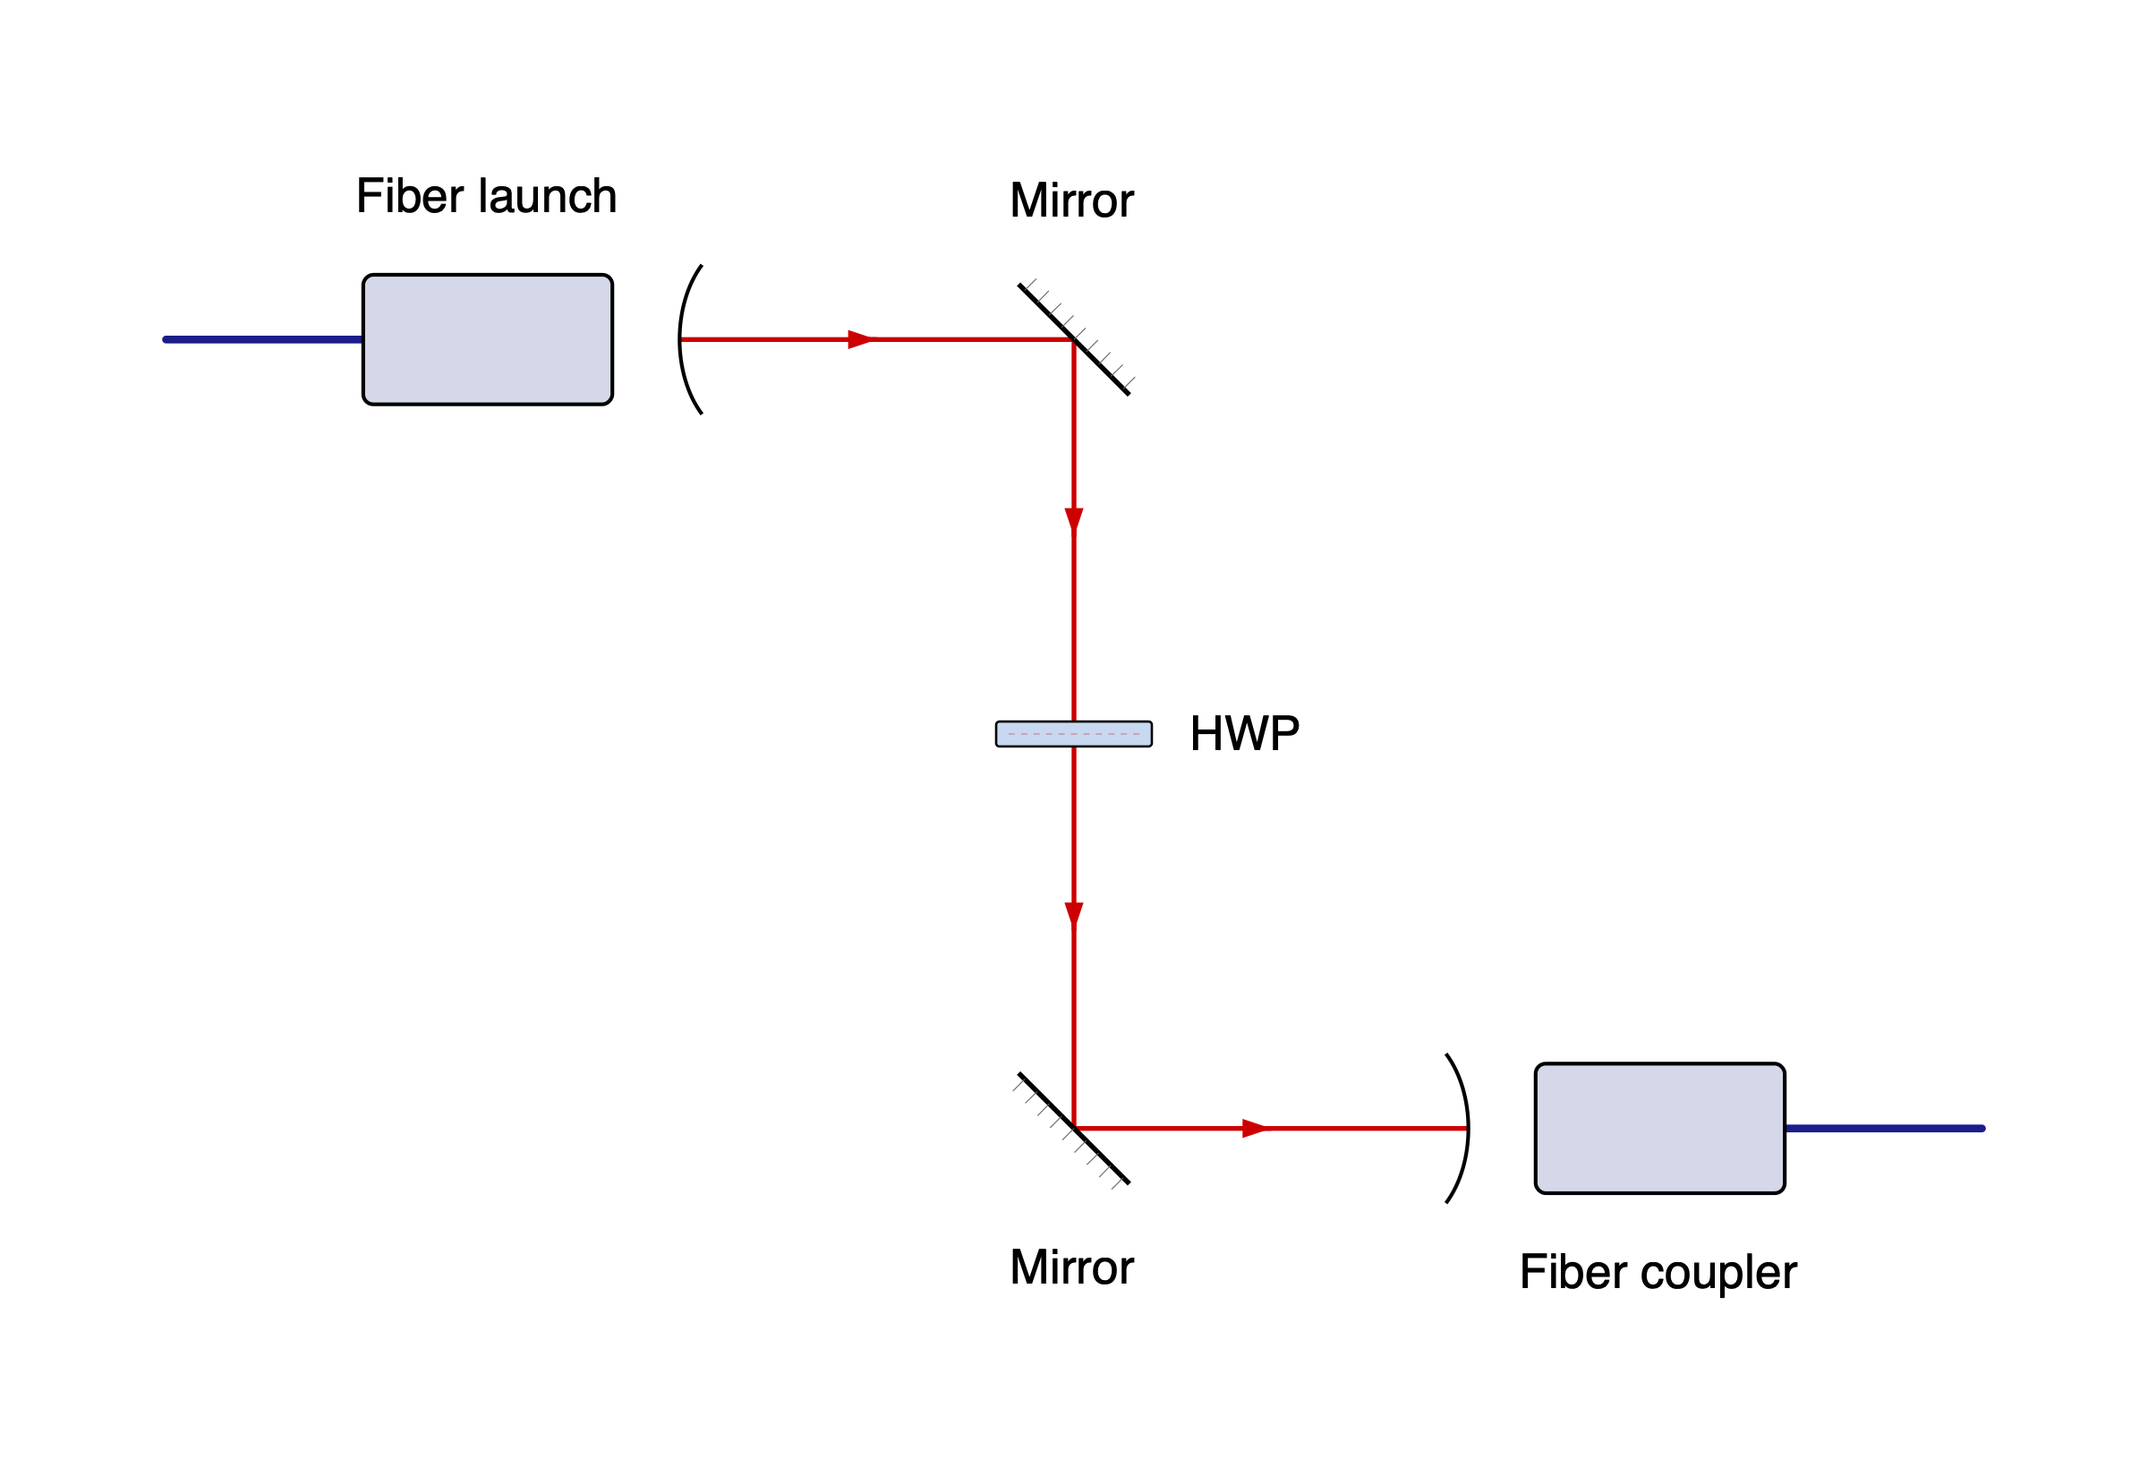
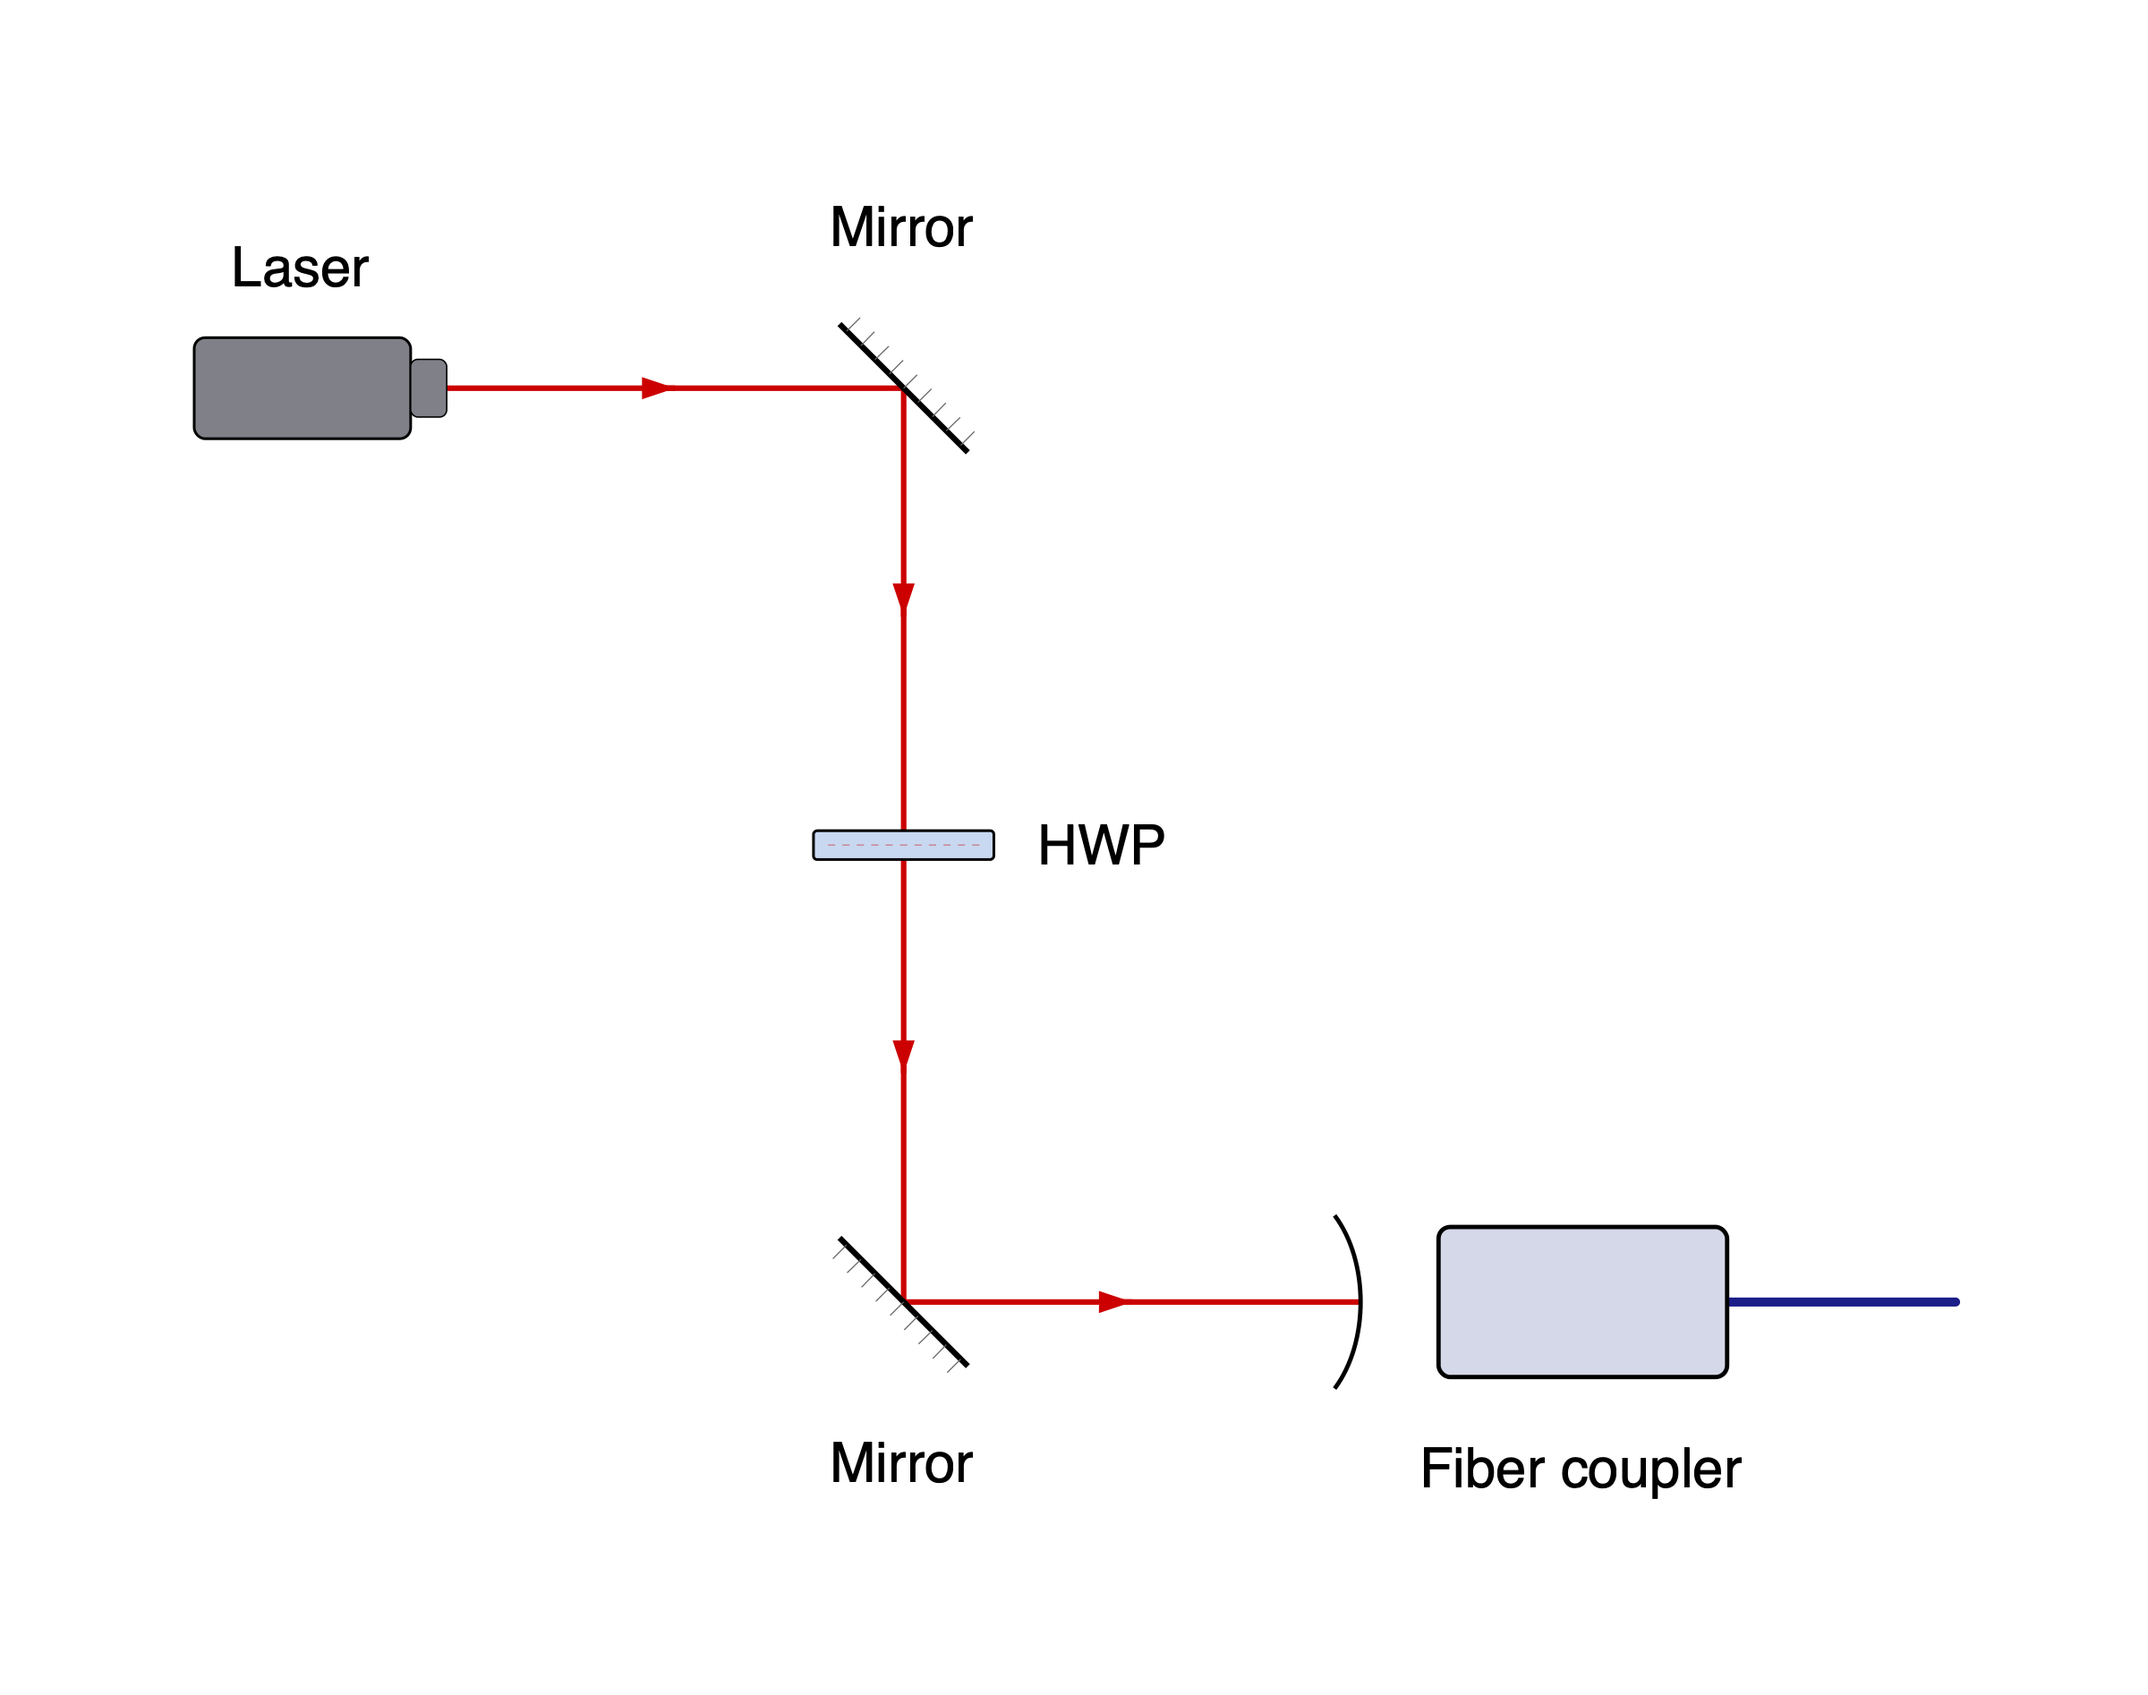
Use free-space lasers in standalone beam examples

diff --git a/tests/test_rows.py b/tests/test_rows.py
@@ -1,4 +1,3 @@
-import runpy
 """Stage groups retain topology and defer row placement until rendering."""
 from dataclasses import replace
 
@@ -187,8 +186,8 @@ def test_single_row_and_group_endpoint_keep_normal_path_semantics():
     assert_clear(grouped.layout())
 
 
-def test_shared_optics_are_copied_once_inside_a_row():
-    mzi = runpy.run_module("beampath.examples.mzi")["setup"]
+def test_shared_optics_are_copied_once_inside_a_row(fiber_mzi):
+    mzi = fiber_mzi
     result = rows(fiber_laser() >> inline_power_meter(), mzi)
     assert len(result.setup.optics) == len(mzi.setup.optics) + 2
     recombiner, = [n for n in result.setup.optics if n.spec.label == "NPBS2"]

diff --git a/tests/conftest.py b/tests/conftest.py
@@ -1,0 +1,16 @@
+"""Shared optical fixtures independent of the presentation examples."""
+import pytest
+
+from beampath import HWP, beamsplitter, detector, fiber_launch, mirror
+
+
+@pytest.fixture
+def fiber_mzi():
+    """A fiber-fed interferometer for composition and row-connection checks."""
+    setup = fiber_launch() >> beamsplitter("NPBS1", turn="left")
+    lower = setup.straight() >> HWP() >> mirror(heading="north")
+    upper = setup.reflect() >> mirror(heading="east") >> HWP()
+    combined = lower.join(upper, beamsplitter("NPBS2", turn="right"))
+    combined.reflect() >> detector()
+    combined.straight() >> detector()
+    return setup

diff --git a/tests/test_layout.py b/tests/test_layout.py
@@ -116,7 +116,8 @@ def test_cage_layout_and_labels():
     grid = [(0, 0), (1, 0), (1, 1), (2, 1), (3, 1), (4, 1), (5, 1),
             (6, 1), (7, 1), (8, 1), (9, 1), (9, 0), (10, 0)]
     for optic, (x, y) in zip(result.placements.values(), grid):
-        assert optic.position == pytest.approx((190 * x, 190 * y))
+        # The laser's nozzle is 60 units ahead of its housing center.
+        assert optic.position == pytest.approx((190 * x + (60 if x else 0), 190 * y))
     assert len(result.placements) == 13
     assert len(result.segments) == 12
     assert [label.text for label in result.labels] == [n.spec.display_label for n in p.setup.optics]

diff --git a/tests/test_composition.py b/tests/test_composition.py
@@ -1,4 +1,3 @@
-import runpy
 """Composition copies topology and constraints, without sharing physical optics."""
 import pytest
 
@@ -50,8 +49,8 @@ def test_repeated_branched_stage_copies_are_independent_and_keep_selected_output
     assert len(destination.setup.optics) == 12
 
 
-def test_copy_shared_recombiner_once_and_preserve_all_branches():
-    stage = runpy.run_module("beampath.examples.mzi")["setup"]
+def test_copy_shared_recombiner_once_and_preserve_all_branches(fiber_mzi):
+    stage = fiber_mzi
     before = snapshot(stage)
     svg = stage.to_svg()
     destination = beam().append(fiber_laser(), at=(-500, 0))

diff --git a/examples/ghz_path_identity.py b/examples/ghz_path_identity.py
@@ -11,9 +11,9 @@ Based on the path-identity scheme in
 [Fig. 1 of the PyTheus paper](https://arxiv.org/pdf/2210.09980#page=6).
 """
 
-from beampath.components import HWP, beam_block, beamsplitter, detector, fiber_launch, mirror, spdc
+from beampath.components import HWP, beam_block, beamsplitter, detector, laser, mirror, spdc
 
-setup = fiber_launch("Coherent pump") >> beamsplitter("Pump splitter", turn="right")
+setup = laser("Coherent pump") >> beamsplitter("Pump splitter", turn="right")
 
 hh_ab = (setup.straight() >> spdc("SPDC\nHH", opening_angle=60)).end
 hh_cd = (

diff --git a/tests/test_render.py b/tests/test_render.py
@@ -140,7 +140,8 @@ def test_npbs_cube_surface_matches_beam_geometry(initial, turn):
 def test_fiber_transition_orientation_and_mirror_backing():
     layout = runpy.run_module("beampath.examples.cage")["setup"].layout()
     nodes = list(layout.placements.values())
-    launch, couple = nodes[0].instance, nodes[-1].instance
+    launch = (beam() >> fiber_launch()).end.instance
+    couple = nodes[-1].instance
     assert artwork_point(launch, (85, 27))[0] < 0
     assert artwork_point(couple, (85, 27))[0] > 0
     for placed in nodes:

diff --git a/examples/franson.py b/examples/franson.py
@@ -1,8 +1,8 @@
 """A Franson interferometer with SPDC and two matched unequal-arm analyzers."""
 
-from beampath.components import beam_block, beamsplitter, detector, fiber_launch, mirror, spdc
+from beampath.components import beam_block, beamsplitter, detector, laser, mirror, spdc
 
-setup = fiber_launch("CW pump") >> spdc(opening_angle=60)
+setup = laser("CW pump") >> spdc(opening_angle=60)
 setup.out("pump") >> beam_block("Pump dump")
 
 # Mirror the analyzers about the pump axis. Each straight short arm has length

diff --git a/tests/test_examples.py b/tests/test_examples.py
@@ -174,7 +174,7 @@ def test_ghz_path_identity_postselects_only_hhhh_and_vvvv():
         ("VV", frozenset("ac")), ("VV", frozenset("bd")),
     }
     assert len(pump_roots) == 1
-    assert nodes[pump_roots.pop()].spec.definition.name == "fiber_launch"
+    assert nodes[pump_roots.pop()].spec.definition.name == "laser"
 
     # Include double emission by one source: only the two disjoint pairings
     # survive the one-photon-per-output condition in the two-pair sector.

diff --git a/scripts/render_hello_social.py b/scripts/render_hello_social.py
@@ -40,7 +40,7 @@ def build_social_svg():
     manifest_node.text = json.dumps(manifest, ensure_ascii=False, indent=2)
     element(root, "title").text = "beampath — hello"
     element(root, "desc").text = (
-        "A fiber launch, two mirrors, a half-wave plate, and a fiber coupler, "
+        "A laser, two mirrors, a half-wave plate, and a fiber coupler, "
         "with the Python code that creates the diagram in the upper right."
     )
 

diff --git a/examples/mzi.py b/examples/mzi.py
@@ -2,7 +2,7 @@
 
 from beampath.components import *
 
-setup = fiber_launch() >> beamsplitter("NPBS1", turn="left")
+setup = laser() >> beamsplitter("NPBS1", turn="left")
 lower = setup.straight() >> HWP() >> mirror(heading="north")
 upper = setup.reflect() >> mirror(heading="east") >> HWP()
 combined = lower.join(upper, beamsplitter("NPBS2", turn="right"))

diff --git a/examples/spdc.py b/examples/spdc.py
@@ -2,7 +2,7 @@
 
 from beampath.components import *
 
-setup = fiber_launch("Pump input") >> spdc()
+setup = laser("Pump input") >> spdc()
 # Small opening angles need longer paths to separate downstream optics.
 setup.out("pump").append(iris("Transmitted pump"), distance=800)
 setup.out("signal").append(fiber_coupler("Signal"), distance=500)

diff --git a/examples/cage.py b/examples/cage.py
@@ -1,9 +1,9 @@
-"""A linear chain of polarization optics with folded fiber connections."""
+"""A laser-driven polarization chain with a folded path and fiber output."""
 
 from beampath.components import *
 
 setup = (
-    fiber_launch()
+    laser()
     >> mirror(turn="right")
     >> mirror(turn="left")
     >> iris()
